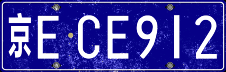
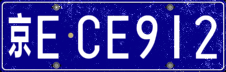
master

diff --git a/gru-pa.py b/gru-pa.py
@@ -1548,10 +1548,13 @@ def public_notice():
     if not st.session_state.vehicle_restrict_info and st.session_state.vehicle_restrict:
         st.session_state.vehicle_restrict_info = get_vehicle_restrict()
     if st.session_state.vehicle_restrict_info:
-        st.subheader("车辆限行信息", divider="red")
+        st.subheader("您的车辆限行预警", divider="red")
         vehicle_restrict_info = st.session_state.vehicle_restrict_info
         for each in vehicle_restrict_info:
-            st.markdown(f'##### {each}')
+            st.markdown(f'#### {each[:each.find(" ")]}')
+            vp_file = f"./Images/license_plate/{each[each.rfind(' ') + 1:].strip()}.png"
+            if os.path.exists(vp_file):
+                st.image(vp_file)
 
 
 @st.fragment
@@ -2615,7 +2618,7 @@ def qweather_logo():
 
 
 def get_vehicle_restrict():
-    restrict_info, gen_vl = [], []
+    restrict_info, gen_vp_pack = [], []
     for i in range(2):
         query_date = cal_date(i)
         query_wor = datetime.date.fromisoformat(query_date).weekday() + 1
@@ -2630,17 +2633,17 @@ def get_vehicle_restrict():
                 sql = f"SELECT ID from vehicle_restrict where wor = {query_wor} and tail_num = {user_last_plate} and start_time <= '{query_date}' and end_time >= '{query_date}' and StationCN = '{st.session_state.StationCN}'"
                 if execute_sql(cur, sql):
                     if i > 0:
-                        restrict_info.append(f'您的车辆 {result[0]} :orange[明日限行]')
+                        restrict_info.append(f':orange[明日限行] {result[0]}')
                     else:
-                        restrict_info.append(f'您的车辆 {result[0]} 今日限行')
+                        restrict_info.append(f'今日限行 {result[0]}')
     sql = f"SELECT license_plate, userCName from vehicle_info where StationCN = '{st.session_state.StationCN}' and vehicle_type = 0"
     results = execute_sql(cur, sql)
     if results:
         for result in results:
             if not os.path.exists(f"./Images/license_plate/{result[0]}.png"):
-                gen_vl.append(result[0])
-    if gen_vl:
-        create_plate_image(gen_vl, '燃油车')
+                gen_vp_pack.append(result[0])
+    if gen_vp_pack:
+        create_plate_image(gen_vp_pack, '燃油车')
     if restrict_info:
         return restrict_info
 
